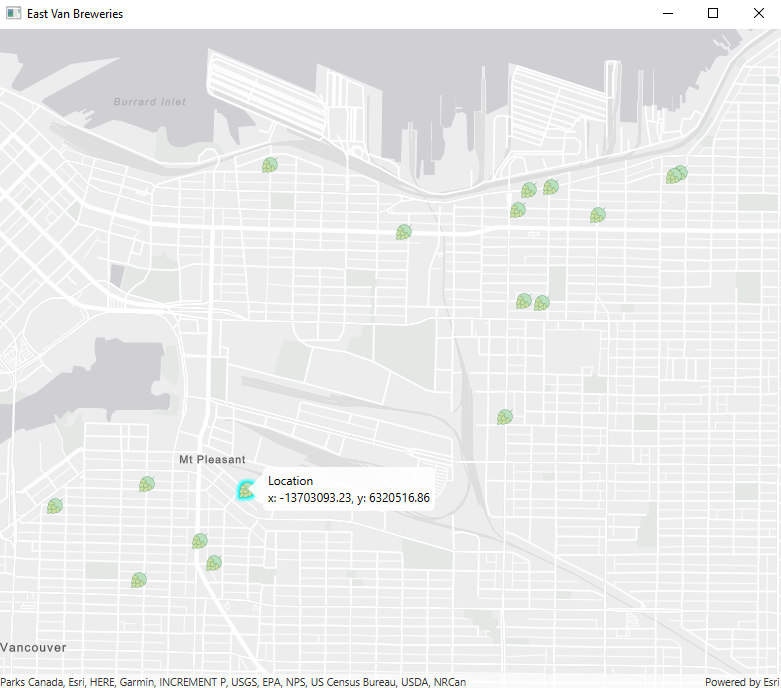
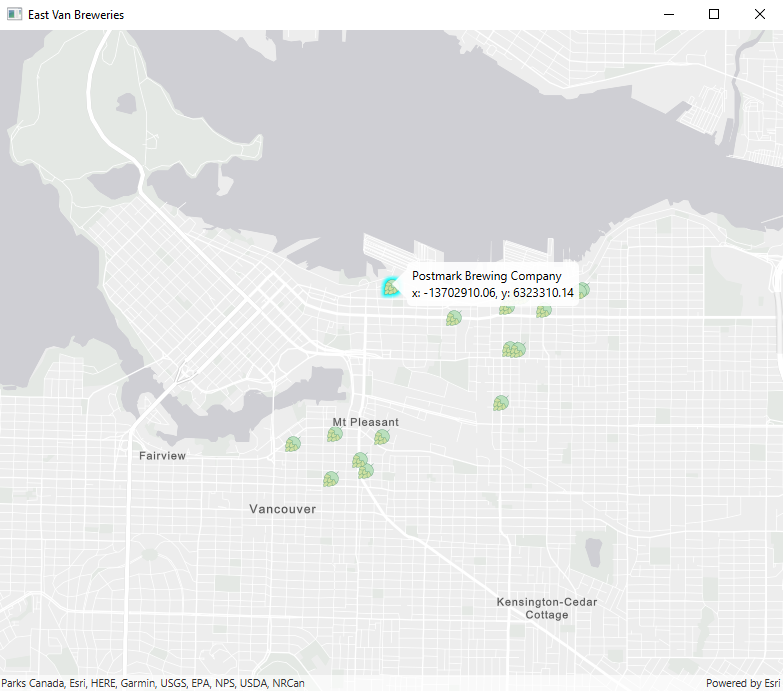
Show attributes and coordinates in a callout. Update screenshot in README.md.

diff --git a/src/main/java/com/mycompany/app/App.java b/src/main/java/com/mycompany/app/App.java
@@ -17,12 +17,14 @@
 package com.mycompany.app;
 
 import com.esri.arcgisruntime.concurrent.ListenableFuture;
+import com.esri.arcgisruntime.data.ArcGISFeature;
 import com.esri.arcgisruntime.data.Feature;
 import com.esri.arcgisruntime.geometry.Point;
 import com.esri.arcgisruntime.layers.FeatureLayer;
 import com.esri.arcgisruntime.loadable.LoadStatus;
 import com.esri.arcgisruntime.mapping.ArcGISMap;
 import com.esri.arcgisruntime.mapping.Basemap;
+import com.esri.arcgisruntime.mapping.GeoElement;
 import com.esri.arcgisruntime.mapping.Viewpoint;
 import com.esri.arcgisruntime.mapping.view.Callout;
 import com.esri.arcgisruntime.mapping.view.IdentifyLayerResult;
@@ -38,10 +40,9 @@ import javafx.scene.input.MouseButton;
 import javafx.scene.input.MouseEvent;
 import javafx.scene.layout.StackPane;
 import javafx.stage.Stage;
-import javafx.util.Duration;
 
 import java.util.List;
-
+import java.util.concurrent.ExecutionException;
 import java.util.stream.Collectors;
 
 public class App extends Application {
@@ -63,6 +64,7 @@ public class App extends Application {
 
         //waits for the portal item to load and checks the load status
         portalItem.addDoneLoadingListener(() -> {
+
             if (portalItem.getLoadStatus() == LoadStatus.LOADED) {
                 addBreweriesLayer(portalItem);
             } else {
@@ -81,7 +83,6 @@ public class App extends Application {
         //creates a Light Gray Canvas base map for the map
         Basemap basemap = Basemap.createLightGrayCanvasVector();
         ArcGISMap map = new ArcGISMap(basemap);
-
 
         //wait for layer to load then add the layer to the map and set the viewpoint
         //to display all of the features of the layer
@@ -108,13 +109,13 @@ public class App extends Application {
             //selects features that have been clicked
             selectFeature(e, layer, screenPoint);
 
-            // creates a callout where the user clicked
-            createGeoCallOut(e, screenPoint);
+            // creates a callout of the brewery  name and x y coordinates where the user clicked
+            createGeoCallOut(e, layer, screenPoint);
+
         });
     }
 
     public void selectFeature(MouseEvent e, FeatureLayer layer, Point2D screenPoint) {
-
         // check for primary or secondary mouse click
         if (e.isStillSincePress() && e.getButton() == MouseButton.PRIMARY) {
             // clear previous results
@@ -149,50 +150,66 @@ public class App extends Application {
         }
     }
 
-
-    public void createGeoCallOut(MouseEvent e, Point2D screenPoint) {
-
-
+    public void createGeoCallOut(MouseEvent e, FeatureLayer layer, Point2D screenPoint) {
         // get the map view's callout
         Callout callout = mapView.getCallout();
-        if(callout.isVisible()){
+        if (callout.isVisible()) {
 
             callout.dismiss();
         }
-
         // check that the primary mouse button was clicked and user is not
         // panning
         if (e.isStillSincePress() && e.getButton() == MouseButton.PRIMARY) {
 
-            // was the main button pressed?
-            if (e.getButton() == MouseButton.PRIMARY) {
+            // create a map point from a point
+            Point clickPoint = mapView.screenToLocation(screenPoint);
 
-                // create a map point from a point
-                Point mapPoint = mapView.screenToLocation(screenPoint);
+            if (!callout.isVisible()) {
+                // get the clicked feature
+                ListenableFuture<IdentifyLayerResult> results = mapView.identifyLayerAsync(layer, screenPoint, 1, false);
+                results.addDoneListener(() -> {
+                    try {
+                        ArcGISFeature selected;
+                        IdentifyLayerResult layerOfFeatures = results.get();
+                        List<GeoElement> identified = layerOfFeatures.getElements();
 
-                // callout show and hide animation duration
-                final Duration DURATION = new Duration(0);
+                        if (identified.size() > 0) {
+                            GeoElement element = identified.get(0);
 
-                if (!callout.isVisible()) {
-                    // set the callout's details
-                    callout.setTitle("Location");
-                    callout.setDetail(String.format("x: %.2f, y: %.2f", mapPoint.getX(), mapPoint.getY()));
+                            // get selected feature
+                            if (element instanceof ArcGISFeature) {
+                                selected = (ArcGISFeature) element;
+                                layer.selectFeature(selected);
+                                selected.loadAsync();
 
-                    // show the callout where the user clicked
-                    callout.showCalloutAt(mapPoint, DURATION);
-                } else {
-                    // hide the callout
-                    callout.dismiss();
-                }
+                                selected.addDoneLoadingListener(() -> {
+                                    if (selected.getLoadStatus() == LoadStatus.LOADED) {
+
+                                        String name = String.valueOf(selected.getAttributes().get("Brewery_Name"));
+                                        // set the callout's details
+                                        callout.setDetail(String.format("x: %.2f, y: %.2f", clickPoint.getX(), clickPoint.getY()));
+                                        callout.setTitle(name);
+                                        callout.showCalloutAt(clickPoint);
+
+                                    } else {
+                                        Alert alert = new Alert(Alert.AlertType.ERROR, "Element Failed to Load!");
+                                        alert.show();
+                                    }
+                                });
+                            }
+                        }
+                    } catch (InterruptedException | ExecutionException ex) {
+                        System.out.println("Exception getting identify result" + ex.getCause().getMessage());
+                    }
+                });
+            } else {
+                // hide the callout
+                callout.dismiss();
             }
         }
     }
 
-
-    @Override
     public void start(Stage stage) {
-
-
         // set the title and size of the stage and show it
         stage.setTitle("East Van Breweries");
         stage.setWidth(800);
@@ -213,10 +230,7 @@ public class App extends Application {
 
     }
 
-    /**
-     * Stops and releases all resources used in application.
-     */
-    @Override
+    //Stops and releases all resources used in application.
     public void stop() {
 
         if (mapView != null) {
